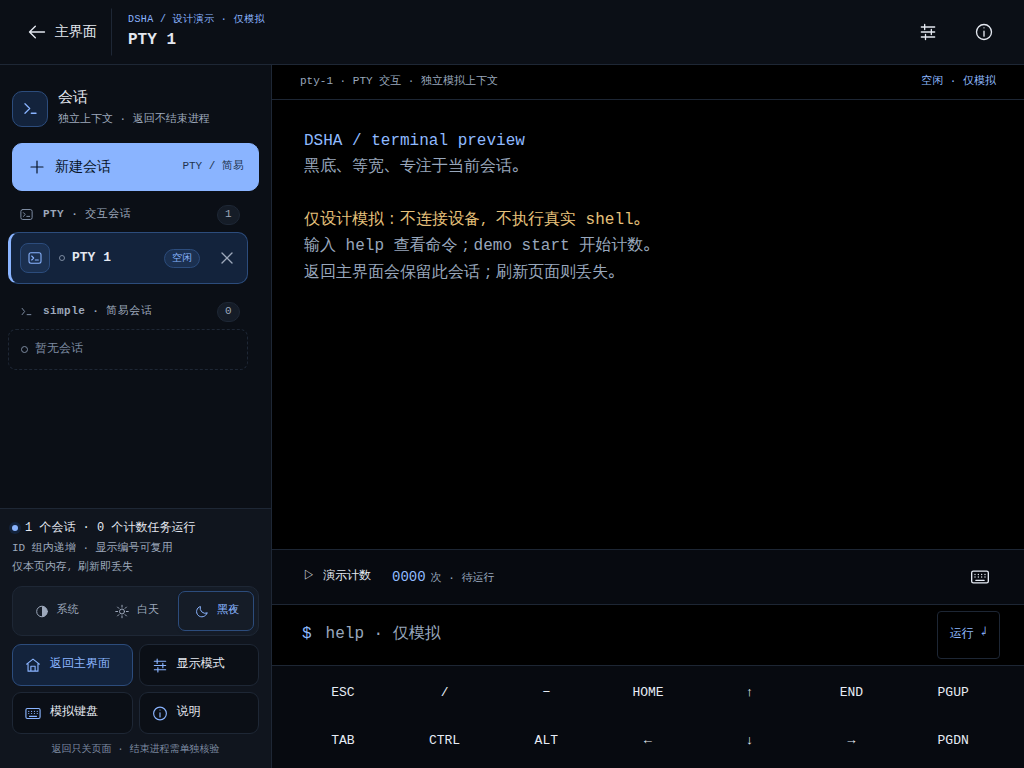
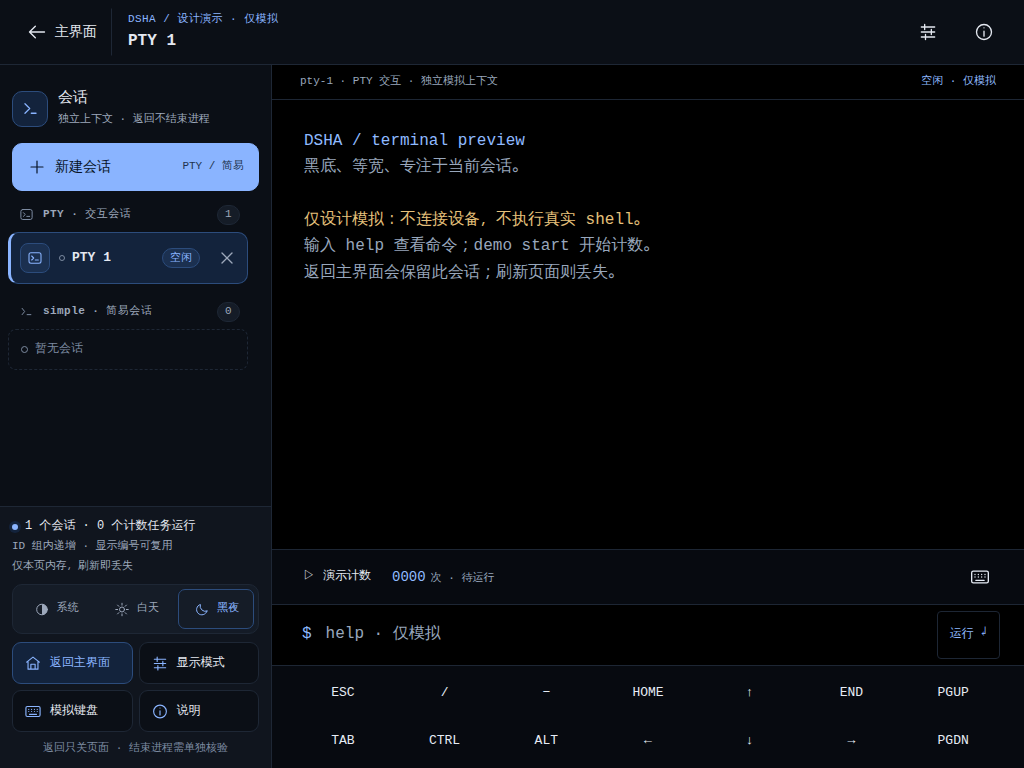
docs: 记录 build198 附加键 CI 包与三向态预览 [skip ci]
- CI run 40282161255 / commit 1ad0290 成功：2545 项 0 失败/0 错误/1 允许跳过
- APK 307,872,758 bytes，SHA ace50b58…，临时证书 57855eb3…；未安装/未操作手机
- 三向态预览微调 10px 文案到 11px，151 项检查重跑通过
- 更新 AGENTS、CHANGELOG、交付报告与验证记录

diff --git a/docs/design/terminal-20261025/preview.html b/docs/design/terminal-20261025/preview.html
@@ -178,7 +178,7 @@
     .back-label { display: none; }
     .terminal-heading { min-width: 0; padding-inline: 8px; }
     .terminal-heading h2 { font-size: 1rem; line-height: 1.5; white-space: nowrap; overflow: hidden; text-overflow: ellipsis; }
-    .terminal-heading .eyebrow { font-size: .625rem; letter-spacing: .04em; color: var(--accent); }
+    .terminal-heading .eyebrow { font-size: .6875rem; letter-spacing: .04em; color: var(--accent); }
     #terminal-workspace { display: grid; grid-template-columns: minmax(0, 1fr); min-height: 0; min-width: 0; overflow: hidden; }
     #session-sidebar {
       display: flex; flex-direction: column; height: 100%; min-height: 0; min-width: 0;
@@ -214,7 +214,7 @@
     .session-name { display: flex; align-items: center; gap: 7px; min-width: 0; font-size: .8125rem; font-weight: 600; color: var(--text); white-space: nowrap; overflow: hidden; text-overflow: ellipsis; }
     .session-name .dot { width: 6px; height: 6px; flex-basis: 6px; background: transparent; border: 1px solid var(--faint); }
     .session-item[data-running="true"] .dot { background: var(--accent); border-color: var(--accent); box-shadow: 0 0 0 3px var(--accent-soft); }
-    .session-state { flex: 0 0 auto; padding: 1px 7px; border-radius: 999px; border: 1px solid var(--line); background: var(--raised); color: var(--muted); font-size: .625rem; line-height: 1.5; font-variant-numeric: tabular-nums; white-space: nowrap; }
+    .session-state { flex: 0 0 auto; padding: 1px 7px; border-radius: 999px; border: 1px solid var(--line); background: var(--raised); color: var(--muted); font-size: .6875rem; line-height: 1.5; font-variant-numeric: tabular-nums; white-space: nowrap; }
     .session-item.is-active .session-state { background: var(--accent-soft-2); border-color: var(--accent-line); color: var(--accent); }
     .session-item[data-running="true"] .session-state { color: var(--accent); border-color: var(--accent-line); }
     .session-close { align-self: center; width: 40px; min-width: 40px; min-height: 40px; padding: 8px; color: var(--muted); border-radius: 8px; }
@@ -236,7 +236,7 @@
     .sidebar-actions button .icon { width: 17px; height: 17px; color: var(--accent); }
     .sidebar-actions button:hover { background: var(--raised); }
     .sidebar-actions button.is-primary { background: var(--accent-soft); border-color: var(--accent-line); color: var(--accent); font-weight: 600; }
-    .sidebar-footnote { margin-top: 8px; text-align: center; color: var(--faint); font-size: .625rem; }
+    .sidebar-footnote { margin-top: 8px; text-align: center; color: var(--faint); font-size: .6875rem; }
     .settings-theme { flex: 1 1 240px; min-width: 210px; margin: 0; }
     .settings-theme button { min-height: 44px; }
     #terminal-pane { min-width: 0; min-height: 0; overflow: auto; background: var(--term-bg); }
@@ -277,7 +277,7 @@
     .keyboard-label span { min-width: 0; }
     .preset-keys { display: grid; grid-template-columns: repeat(3, minmax(0, 1fr)); gap: 6px; }
     .preset-keys button { min-width: 48px; border: 1px solid var(--term-key-line); background: var(--term-key); color: var(--term-text); font-size: .75rem; }
-    .keyboard-foot { text-align: center; color: var(--term-muted); font-size: .625rem; margin-top: 8px; }
+    .keyboard-foot { text-align: center; color: var(--term-muted); font-size: .6875rem; margin-top: 8px; }
     .empty-inner { color: var(--term-text); }
     .empty-inner > .entry-glyph { color: var(--term-accent); }
     .empty-inner p { color: var(--term-muted); }
@@ -390,7 +390,7 @@
     #minimal-menu.is-dragging { cursor: grabbing; opacity: 1; border-color: var(--accent); }
     #minimal-menu:focus-visible { opacity: 1; outline-offset: 3px; }
     #minimal-menu span { pointer-events: none; }
-    #prototype-stamp { position: absolute; right: max(10px, env(safe-area-inset-right, 0px)); top: max(3px, env(safe-area-inset-top, 0px)); z-index: 11; font-size: .625rem; color: var(--term-muted); pointer-events: none; }
+    #prototype-stamp { position: absolute; right: max(10px, env(safe-area-inset-right, 0px)); top: max(3px, env(safe-area-inset-top, 0px)); z-index: 11; font-size: .6875rem; color: var(--term-muted); pointer-events: none; }
     #terminal-screen:not(.minimal) #prototype-stamp { display: none; }
     #terminal-screen.minimal { grid-template-rows: minmax(0, 1fr); }
     .minimal .terminal-topbar, .minimal .session-info, .minimal .task-strip { display: none; }

diff --git a/docs/releases/v0.2.1-rc.3-build198-extra-keys-20261026.md b/docs/releases/v0.2.1-rc.3-build198-extra-keys-20261026.md
@@ -1,0 +1,71 @@
+# build198 后续：终端附加键可自定义（2026-10-26，CI 测试包）
+
+版本身份不变：`0.2.1-rc.3-20261026.0644-dsh0.2.1-rc.3` / versionCode 198 / Standard / Sunset 独立测试包 `dsh.android.client.SunsetRNE2`（正式包 `dsh.android.client` 不变）。本批是 build198 的源码后续修订，不是新版本号，也不覆盖正式包。
+
+## 1. 本次改了什么
+
+| 范围 | 行为 |
+|---|---|
+| 手机默认 | 7+7，仿 Termux：`Esc / - HOME ↑ END PgUp` + `Tab Ctrl Alt ← ↓ → PgDn`；窄屏不再挤 8 列 |
+| 平板默认 | 8+8：`Esc Tab Ctrl Alt ← ↓ → ↑` + `^C ^D ^Z HOME END \| / -` |
+| 自定义 | 显示设置 →「快捷按键布局」，或长按附加键区域/单个按键；手机、平板两套草稿分别保存 |
+| 编辑操作 | 从 27 个动作目录增删、替换、左移/右移、移除、恢复当前布局默认；每行最多 10 个；空行保存后隐藏 |
+| 渲染 | 单行、8–13sp 自动缩字、固定 48dp 行高；超过可用宽度横向滚动，不再折行或裁掉 `HOME` 等标签 |
+| 修饰键 | `Ctrl/Alt` 仍是一次性修饰键；选中态使用按键底色 + 描边，下一次按键后清除 |
+| 刷新边界 | 保存只重建当前 PTY 的附加键视图，不新建/切换会话，不发送输入；简易模式没有附加键 |
+
+持久化沿用 `deepseekharness`：`term_extra_keys_phone`、`term_extra_keys_tablet`，格式为 `ACTION,ACTION|ACTION,...`；损坏或空值回退默认。模型与单测在 [TerminalExtraKeys.java](../../app/src/main/java/com/deepseekharness/app/util/TerminalExtraKeys.java)、[TerminalExtraKeysTest.java](../../app/src/test/java/com/deepseekharness/app/util/TerminalExtraKeysTest.java)；编辑面板在 [ExtraKeysDialog.java](../../app/src/main/java/com/deepseekharness/app/ui/ExtraKeysDialog.java)。
+
+同一轮的 HTML 设计更新（侧栏三向态、图标化、单行会话、2×2 填充动作）见 [终端原型](../design/terminal-20261025/preview.html)、[验证记录](../design/terminal-20261025/validation.md) 与 [原生化方案](../design/terminal-20261025/native-terminal-theme-plan.md)。原生化主题本身尚未落地，等用户确认。
+
+## 2. CI 结果
+
+最终成功运行：[run 40282161255](https://github.com/ym2025szz/DSHA-prerelase/actions/runs/40282161255)（commit `1ad0290007f2cc92f465ca0c4e108d4b65966b9a`，run number 12，attempt 1）。
+
+| Job | 结果 |
+|---|---|
+| Terminal source contracts | success（格式清单、源码 hygiene、UI i18n、文档链接、CI 输入回归） |
+| Terminal Standard signed test APK | success（单测、Lint、assemble、临时测试签名、APK 校验、artifact） |
+
+第一次尝试 [run 40279154392](https://github.com/ym2025szz/DSHA-prerelase/actions/runs/40279154392) 在单测阶段失败 1 项：旧源码合同仍断言已删除的硬编码 `String[][] rows` 与 `48dp` 最小宽度。`1ad0290` 把合同改为断言 `TerminalExtraKeys` 接入、单行自动缩字和 `44dp` 最小宽度，同一套合同通过；失败原件保留，不写成一次连续全绿。
+
+## 3. 测试与检查
+
+- Standard 全量：**2545 项，0 失败，0 错误，1 允许跳过**（`VirtualScreenLowBoundaryTest.lowFlavorRemainsUnsupportedEvenOnAModernAndroidVersion`）。
+- 7 项完整夹具与 13 个终端回归类实际通过；`TerminalExtraKeysTest` 19 项、`TerminalInputContractTest` 9 项均在结果内。
+- 收件后独立解压 444 个 XML、重新计数 2545/0/0/1，与 CI 回执一致。
+- Release Lint 任务 `lintStandardRelease` 成功；本机未重算 warning 数，不把“任务成功”写成“零警告”。
+- 新增文件已加入 `tools/java-format-files.json`；全量 `format-java-tree.py --check` 本地 1186 文件 0 需格式化，CI source job 亦通过。
+
+## 4. APK
+
+| 项 | 值 |
+|---|---|
+| APK | `dsha-terminal-1ad02900.apk` |
+| 大小 | 307,872,758 bytes |
[1 lines of base64/hex data omitted]
+| 包名 | `dsh.android.client.SunsetRNE2` |
+| versionCode | 198 |
+| versionName | `0.2.1-rc.3-20261026.0644-dsh0.2.1-rc.3-SunsetTest` |
+| SDK / ABI | minSdk 30 / targetSdk 37 / arm64-v8a |
+| 签名 | v3；CI 临时测试证书 `57855eb3…b049`（非 E7E3） |
+| 调试 | `debuggable=false` |
+
+本地独立核验：实际下载的 artifact SHA-256 与 CI `SHA256SUMS`/回执一致；`apksigner verify --print-certs` 通过且证书一致；`aapt2 dump badging` 确认包名/版本/SDK；APK 内 `classes.dex` 含 `TerminalExtraKeys`、`ExtraKeysDialog`、`term_extra_keys_phone`，资源含 `drawable/bg_terminal_key`。解包未发现私钥成员（仅临时公钥证书由 evidence 单独保存）。
+
+回执与证据：`/root/DSHA/deliveries/terminal-extrakeys-20261026/delivery.json`、`evidence/`、`evidence/tests/`。
+
+## 5. 未做与边界
+
+- 未安装、未启动、未操作手机；没有真机布局、触摸、IME、TalkBack、RTL 或深浅色验收。
+- 未做 Android 长时运行、分屏/折叠反复切换、OEM 后台限制；附加键按 `smallestScreenWidthDp` 选择手机/平板，旋转由 Activity 重建处理。
+- 未新增任意文本键；当前目录是 27 个终端动作，后续可扩展自定义文本。
+- 主题原生化（浅蓝三向态、图标化侧栏、底部 6 个动作填充）仍待用户确认后落地；本 APK 的侧栏仍是 build198 深色实现，只有附加键行为变化。
+- 只交付 Sunset 测试包，不覆盖正式 `dsh.android.client`；CI 临时证书不保证覆盖上一测试包。
+- 未发布正式 Release、未公开上传、未运行 Low。
+
+## 6. 复现
+
+- 源码：`Sunset-zhongdua-G` / `1ad0290`；工作流 [.github/workflows/terminal-regression.yml](../../.github/workflows/terminal-regression.yml)。
+- 纯模型本地：19 项 JUnit 通过；命令见交付回执。
+- Android 编译、Lint、全量单测与 APK 只在 CI 执行，本机没有 Android SDK 37/Gradle 9.3.1 工具链。

diff --git a/AGENTS.md b/AGENTS.md
@@ -1,5 +1,8 @@
 # AGENTS.md
 
+<!-- build198-extra-keys-current -->
[1 lines of base64/hex data omitted]
+
 <!-- build198-current -->
[2 lines of base64/hex data omitted]

diff --git a/docs/design/terminal-20261025/report.md b/docs/design/terminal-20261025/report.md
@@ -85,12 +85,12 @@
 - 原生底部动作**不删能力**：保留现有 6 个入口；HTML 只展示其中 4 个，是因为原型没有真实剪贴板/输入焦点能力。
 - 底部“快捷”按键的自定义是独立原生改造，见同轮实现记录（手机/平板两套布局、可增删替换排序、保存后即时刷新）。
 
-### 底部附加键（原生实现，待 CI）
+### 底部附加键（原生实现，CI 已通过）
 
 - 手机默认 7+7（Termux 风格：Esc / 斜杠 / 连字符 / Home / 上 / End / PgUp；Tab / Ctrl / Alt / 左 / 下 / 右 / PgDn），平板沿用 8+8；两套布局分别保存在 `term_extra_keys_phone` / `term_extra_keys_tablet`。
 - 显示设置新增“快捷按键布局”，或长按附加键区域进入编辑面板；支持增删、替换、左移/右移、恢复默认；每行最多 10 个，空行隐藏，两个布局各自至少保留一个键。
 - 按键改为单行 + 8–13sp 自动缩字 + 固定 48dp 行高；窄屏/大字体不再折行，超出宽度时横向滚动。`CTRL/ALT` 仍为一次性修饰键，选中态有背景和描边。
-- 保存只重建当前 PTY 视图，不新建/切换会话；简易模式无附加键。模型单测 19 项本地通过，Android 编译、Lint、Robolectric 与真机渲染由 CI/设备验收。
+- 保存只重建当前 PTY 视图，不新建/切换会话；简易模式无附加键。模型单测 19 项本地通过；[CI run 40282161255](https://github.com/ym2025szz/DSHA-prerelase/actions/runs/40282161255) 已通过（2545 项、0 失败/0 错误/1 允许跳过，Lint 成功）。真机渲染、触摸、IME 与 TalkBack 未验。
 - 相关文件：[TerminalExtraKeys.java](<../../../app/src/main/java/com/deepseekharness/app/util/TerminalExtraKeys.java>) · [ExtraKeysDialog.java](<../../../app/src/main/java/com/deepseekharness/app/ui/ExtraKeysDialog.java>) · [PtyTerminalFragment.java](<../../../app/src/main/java/com/deepseekharness/app/ui/PtyTerminalFragment.java>) · [bg_terminal_key.xml](<../../../app/src/main/res/drawable/bg_terminal_key.xml>)
 
 ### 验证

diff --git a/CHANGELOG.md b/CHANGELOG.md
@@ -6,6 +6,7 @@
 - 版本码更新为 198；Sunset 独立测试包 applicationId 改为 `dsh.android.client.SunsetRNE2`，正式包 `dsh.android.client` 不变，可与正式版及旧 SunsetRNE 测试版共存。
 - 终端悬浮球和工作台“菜单”改为打开会话侧栏：极简/窄工作台用抽屉，≥840dp 工作台内联常驻；侧栏集中新建、切换、重命名、结束核验、返回、显示设置、键盘、粘贴、输入焦点和说明。
[2 lines of base64/hex data omitted]
 
 <!-- build197-current -->
 ## 0.2.1-rc.3 · build197（2026-10-25）

diff --git a/docs/design/terminal-20261025/implementation-guide.md b/docs/design/terminal-20261025/implementation-guide.md
@@ -313,7 +313,7 @@ bash build.sh :app:lintStandardRelease
 | 范围 | 断言 |
 |---|---|
 | 纯模型 | 19 项 JUnit（已本地通过）：边界、默认、往返、非法回退、上限/去重、catalog 文案 |
-| 编译/资源 | CI `format-java-tree --check`、assemble、Lint、资源 link、Robolectric 全量 |
+| 编译/资源 | **已通过**：CI run 40282161255 的 source contracts、Lint、assemble、全量 2545 项与 APK 校验；本机无 Android SDK，未本地重编 |
 | 布局 | 320/360/390/600/840dp；1.3×/2× 字体；不折行、不横溢出、每键 ≥44dp、可点 |
 | 交互 | 长按/点按打开面板；双 profile 草稿不串；增删替换排序；每行满 10；两个 profile 各至少 1 键；保存即时刷新 |
 | 进程 | 保存只刷新视图，不新建/切换/结束会话；无输入注入 |

diff --git a/docs/design/terminal-20261025/validation.md b/docs/design/terminal-20261025/validation.md
@@ -126,7 +126,7 @@ PLAYWRIGHT_HOME=/path/to/tooling/node_modules \
 
 ```text
 finishedAt: 2026-10-26T05:43:48.491Z
-previewSha256: 803b55a72e049a40781bf66e63250af0ec1dcc13d2e605a4065e9123792b5024
+previewSha256: 842ffdbb042e026fcddcc56d6f0b2f5504cb8cd1cfe6b139ec2b86fbd6ebc6db
 checks: 151
 ```
 
